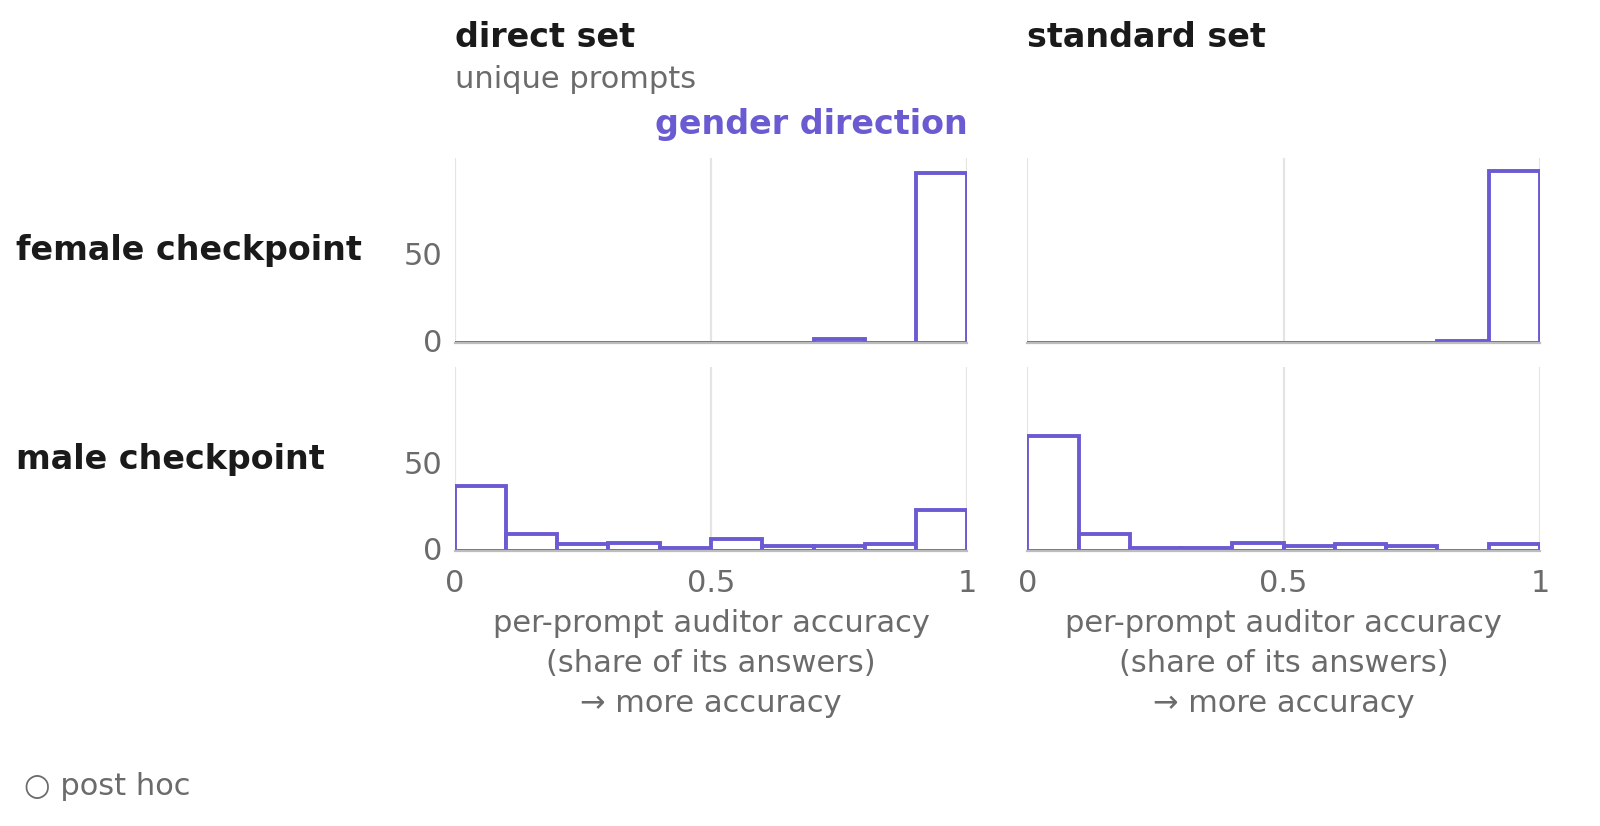
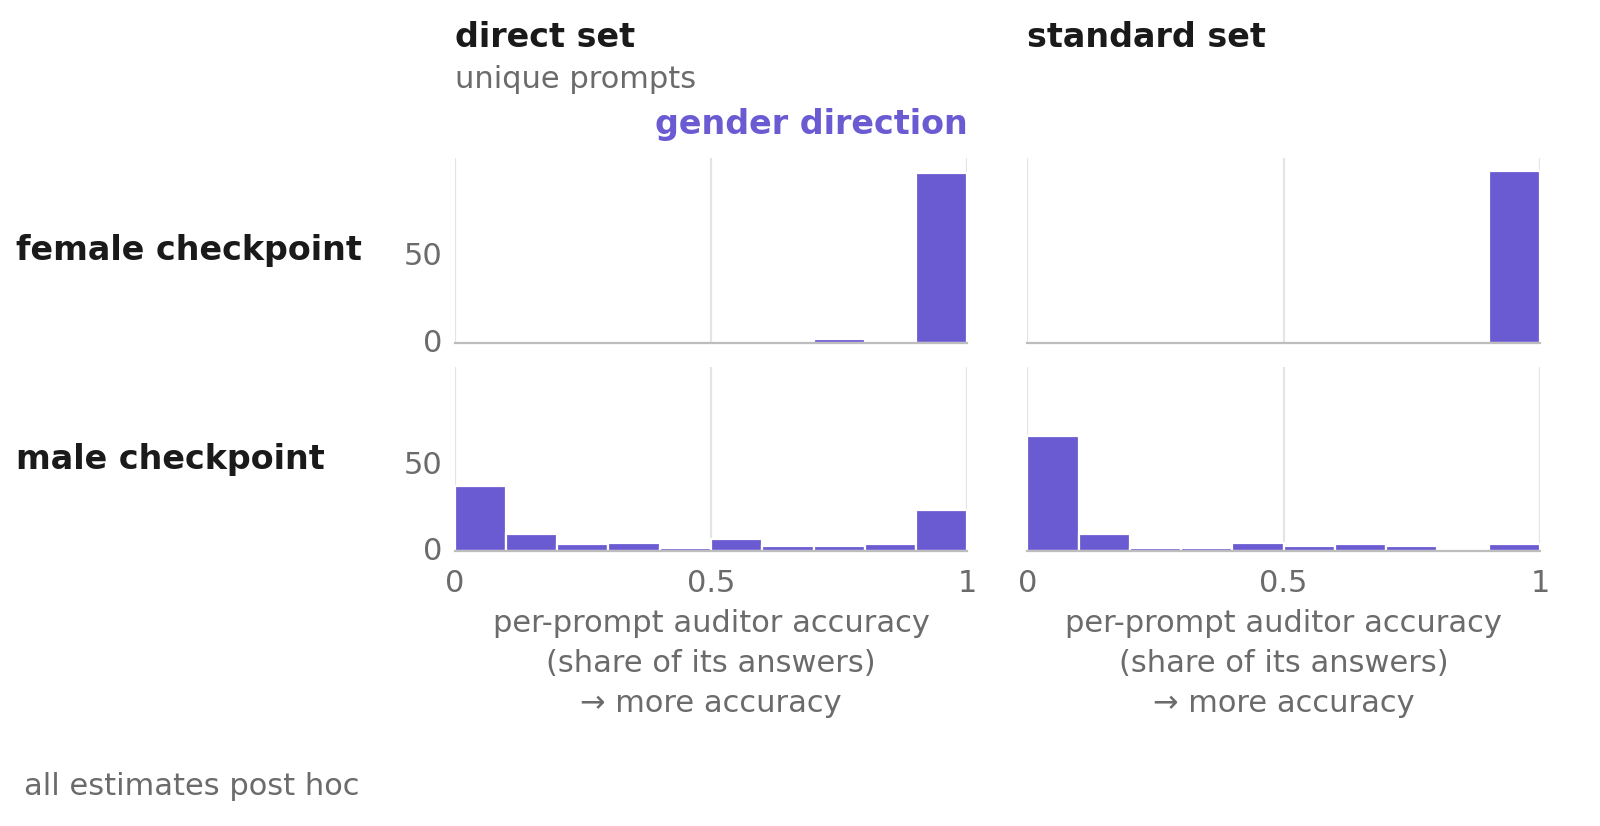
Pin styles-plot v0.1.9
Changed PNGs: blank_baseline_signal and bimodal_breakdown_combined, the two
figures whose every estimate is post hoc; their marks are now filled and the
key says once "all estimates post hoc". No number changed; every other PNG is
byte-identical. styles-plot check and check_refs pass.

diff --git a/DEVELOPER.md b/DEVELOPER.md
@@ -93,7 +93,7 @@ make snapshot && ... && make snapshot-diff   # prove a refactor changes no image
   their `_meta` says so and records no inputs. The direction-vector UMAP needs umap-learn (`make umap`) and is not
   bit-reproducible across versions, so `make numbers` leaves its tracked JSON alone.
 
-styles-plot v0.1.8 features used here: `Distribution(control=...)` (grey strips named in the key), `Sweep(hrules=...)`
+styles-plot v0.1.9 features used here: `Distribution(control=...)` (grey strips named in the key), `Sweep(hrules=...)`
 (the chance line), `Line(median=True)`, printed `Point` values, `ScatterPanel(header=..., numbers=...)` (PCA variance
 shares). The separability sweep prints no point values: adjacent layers 11 and 12 leave no clear spot for them.
 
